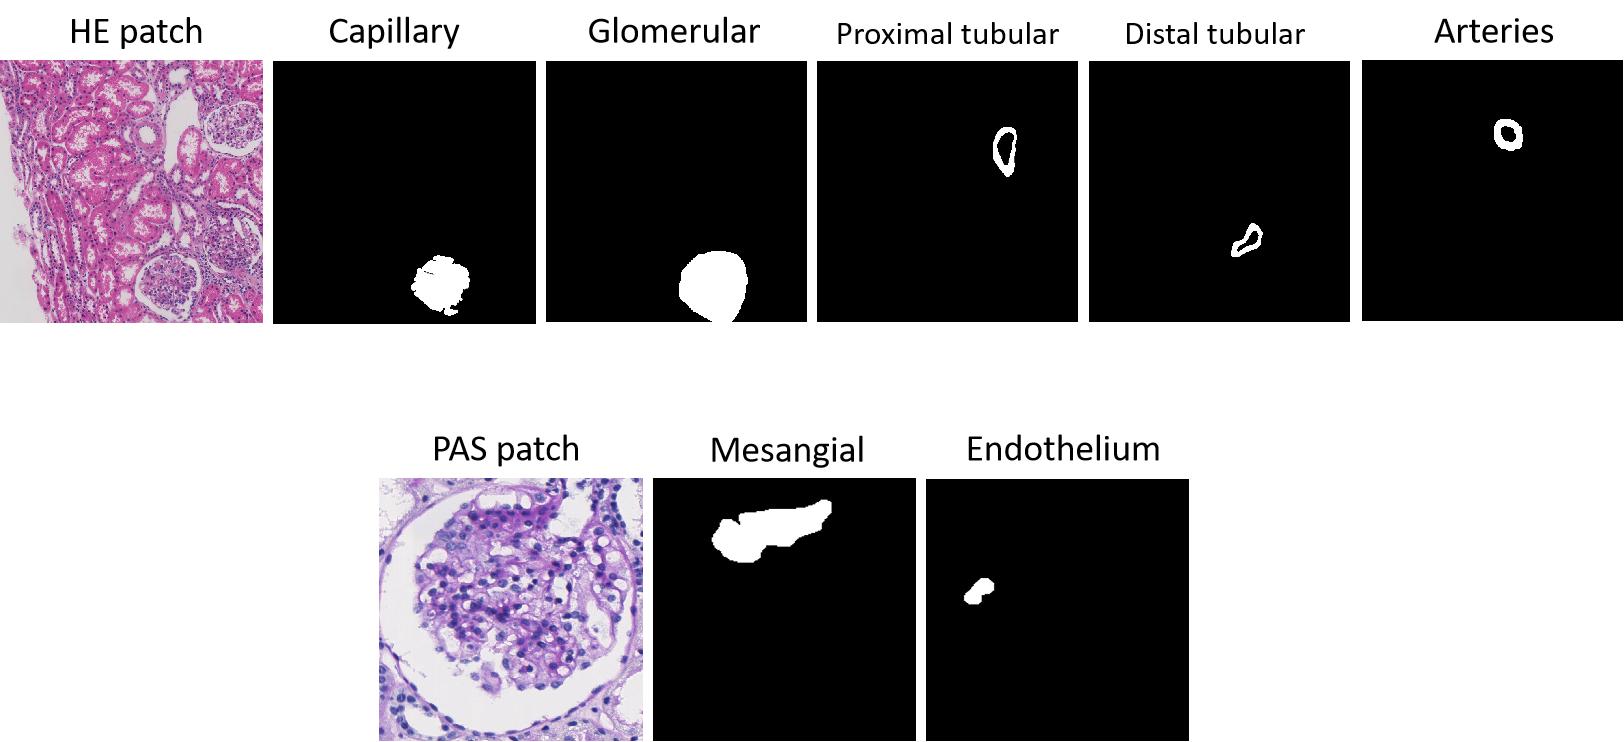
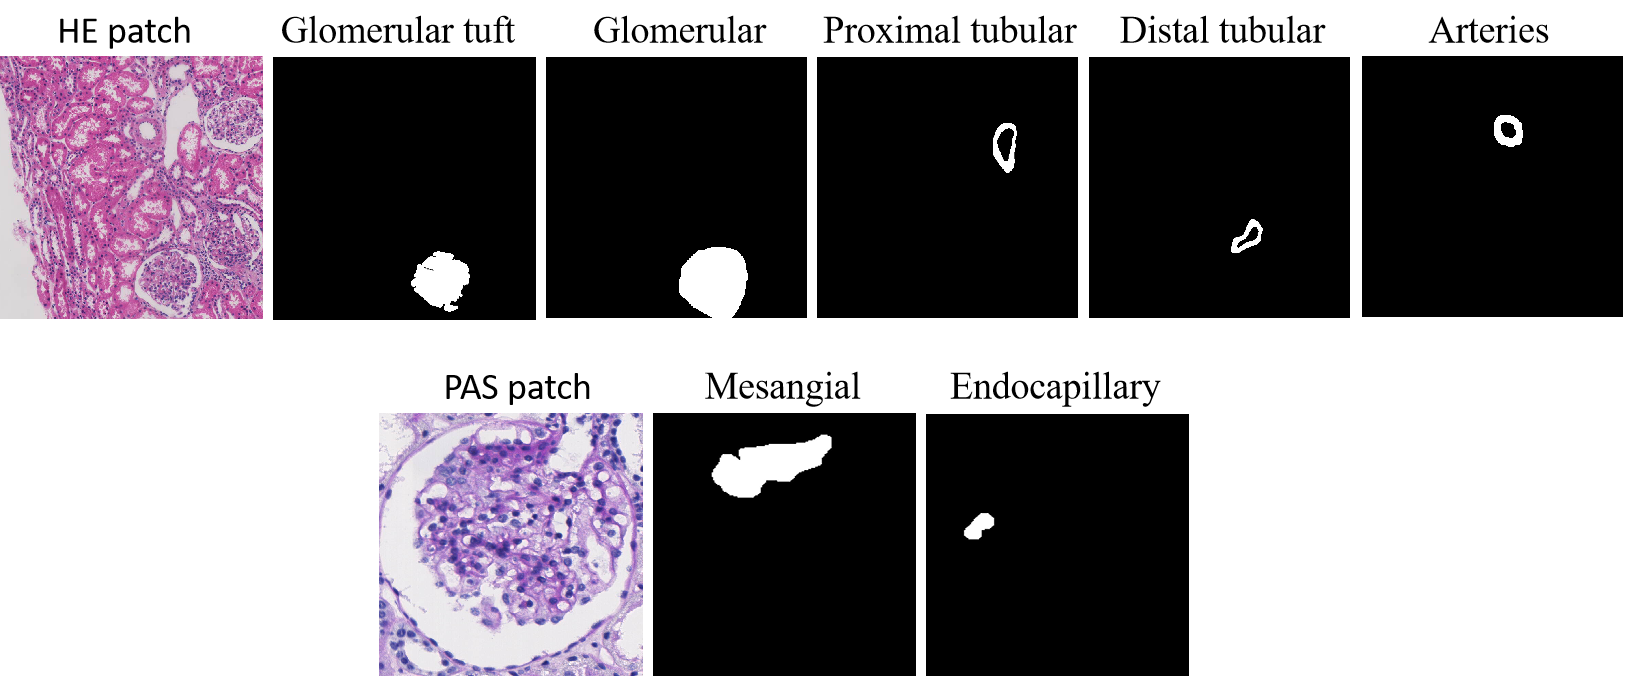
modify

diff --git a/README.md b/README.md
@@ -8,8 +8,8 @@ The file contains two folders, HE and PAS. The original image file name ends wit
 
 Table1.Correspondence table of category index and kidney structure
 
-|  Category index  |        1        |     2      |        3         |       4        |    5     |     7     |      8      |
-| :--------------: | :-------------: | :--------: | :--------------: | :------------: | :------: | :-------: | :---------: |
-| Kidney structure | Capillary lumen | Glomerular | Proximal tubular | Distal tubular | Arteries | Mesangial | Endothelium |
+|  Category index  |        1        |     2      |        3         |       4        |    5     |     7     |       8       |
+| :--------------: | :-------------: | :--------: | :--------------: | :------------: | :------: | :-------: | :-----------: |
+| Kidney structure | Glomerular tuft | Glomerular | Proximal tubular | Distal tubular | Arteries | Mesangial | Endocapillary |
 
 ![](Kidney_annotation.png)
